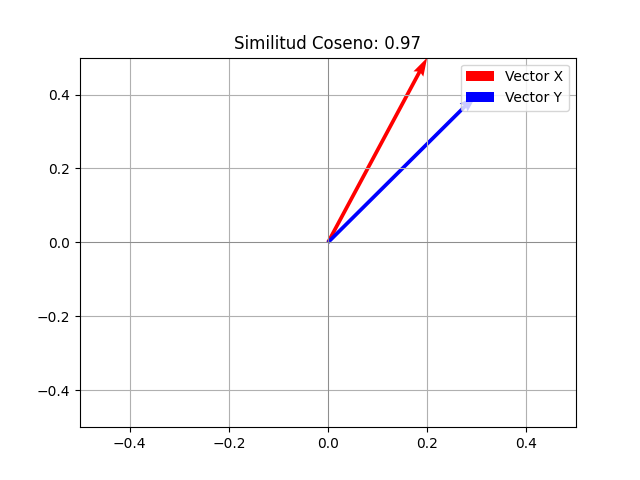
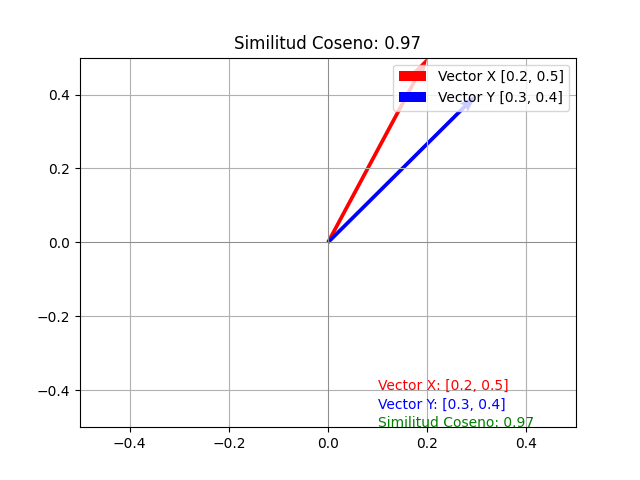
Examen resuelto

Changed region(s): [[0.5938, 0.7812, 0.8438, 0.9062], [0.5938, 0.125, 0.875, 0.25]]

diff --git a/examen-parcial/grafico.py b/examen-parcial/grafico.py
@@ -3,27 +3,34 @@ import numpy as np
 from cosine_similarity import cosine_similarity
 
 def plot_vectors(x, y, similarity, output_file="grafico.png"):
-    """Grafica dos vectores y guarda el resultado como una imagen PNG."""
+    """Grafica dos vectores y muestra su información, además de guardar el resultado como una imagen PNG."""
     origin = [0, 0]  # Origen para ambos vectores
 
     # Convertir los vectores para graficar
     x_coords = np.array(x)
     y_coords = np.array(y)
 
-    # Graficar
-    plt.quiver(*origin, x_coords[0], x_coords[1], angles='xy', scale_units='xy', scale=1, color='r', label='Vector X')
-    plt.quiver(*origin, y_coords[0], y_coords[1], angles='xy', scale_units='xy', scale=1, color='b', label='Vector Y')
+    # Graficar los vectores
+    plt.quiver(*origin, x_coords[0], x_coords[1], angles='xy', scale_units='xy', scale=1, color='r', label=f'Vector X {x}')
+    plt.quiver(*origin, y_coords[0], y_coords[1], angles='xy', scale_units='xy', scale=1, color='b', label=f'Vector Y {y}')
 
-    # Configurar límites y texto
+    # Configurar límites
     plt.xlim(-0.5, 0.5)
     plt.ylim(-0.5, 0.5)
     plt.axhline(0, color='gray', linewidth=0.5)
     plt.axvline(0, color='gray', linewidth=0.5)
     plt.grid()
+
+    # Título y leyenda
     plt.title(f'Similitud Coseno: {similarity:.2f}')
     plt.legend()
 
-    # Guardar la imagen
+    # Agregar texto con información adicional
+    plt.text(0.1, -0.4, f"Vector X: {x}", fontsize=10, color='red')
+    plt.text(0.1, -0.45, f"Vector Y: {y}", fontsize=10, color='blue')
+    plt.text(0.1, -0.5, f"Similitud Coseno: {similarity:.2f}", fontsize=10, color='green')
+
+    # Guardar la imagen como PNG
     plt.savefig(output_file)
     print(f"Gráfico guardado como {output_file}")
     plt.close()
